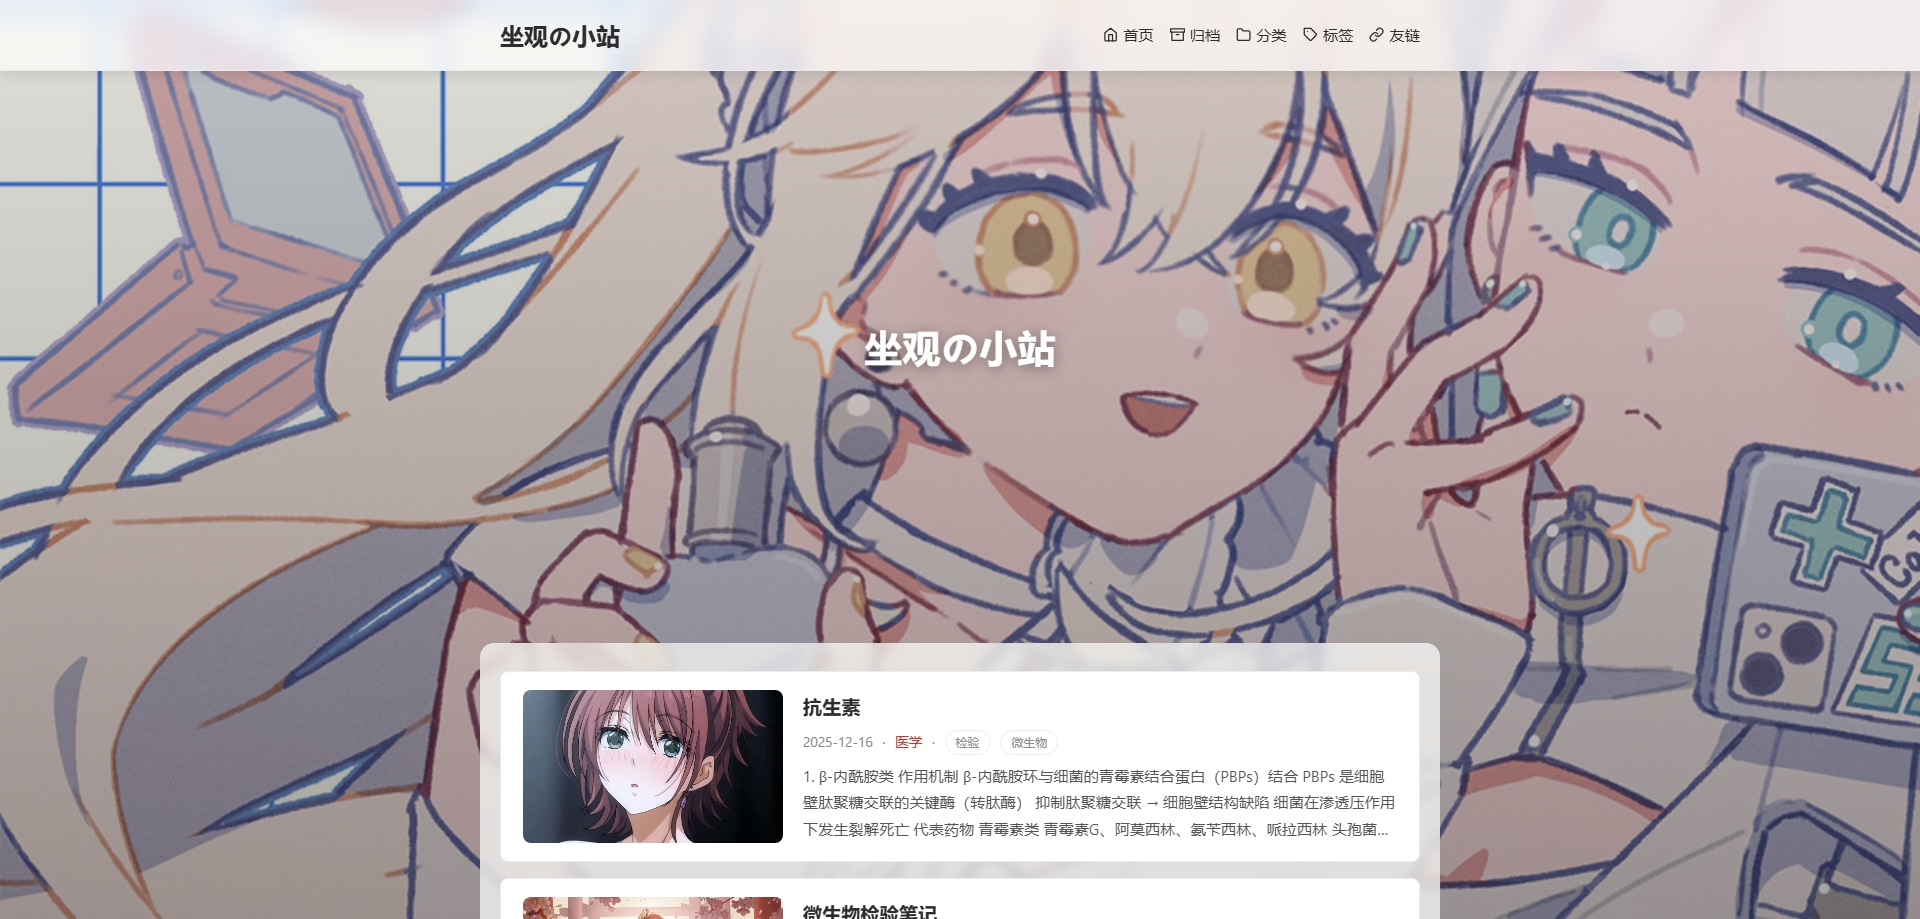
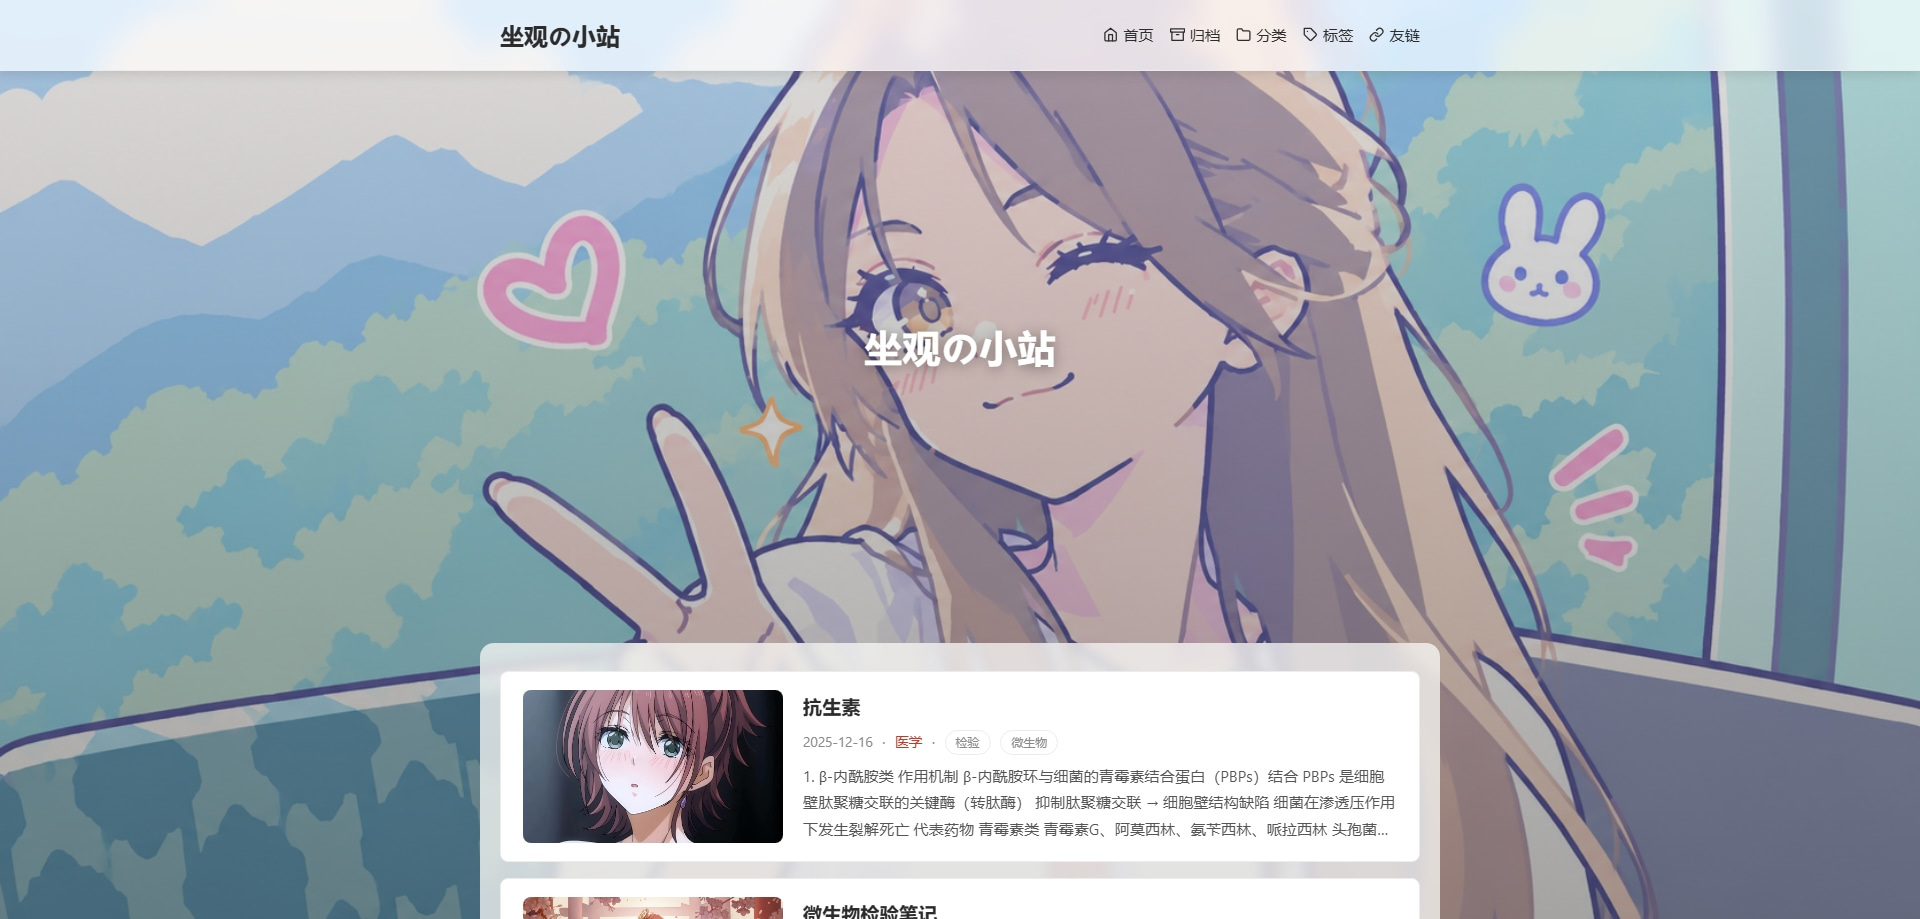
更换banner图片

diff --git a/public/tags/index.html b/public/tags/index.html
@@ -22,7 +22,7 @@
   </div>
 </header>
 <section class="hero">
-  <div class="hero-cover" style="background-image:linear-gradient(rgba(0,0,0,0.12),rgba(0,0,0,0.35)),url(&quot;https://zuoguan-piclib-1257172707.cos.ap-guangzhou.myqcloud.com/assets/c72889ceb2b468947eea7a86a5056282.jpg&quot;)"></div>
+  <div class="hero-cover" style="background-image:linear-gradient(rgba(0,0,0,0.12),rgba(0,0,0,0.35)),url(&quot;https://zuoguan-piclib-1257172707.cos.ap-guangzhou.myqcloud.com/assets/81bb1f19351284a6b45e947cdb350018.png&quot;)"></div>
   <div class="hero-inner container">
     <h1 class="hero-title">标签</h1>
     <p class="hero-subtitle">共 20 个标签</p>
@@ -34,7 +34,7 @@
 <section class="term-page">
   
   
-  <div class="tag-cloud"><a class="tag-cloud-item" href="/tags/%E5%BE%AE%E7%94%9F%E7%89%A9/" style="font-size:1.05rem;--th:22">微生物 <small>2</small></a><a class="tag-cloud-item" href="/tags/CSharp/" style="font-size:0.95rem;--th:169">CSharp <small>1</small></a><a class="tag-cloud-item" href="/tags/%E4%BB%A3%E7%90%86/" style="font-size:1.25rem;--th:321">代理 <small>4</small></a><a class="tag-cloud-item" href="/tags/%E6%9D%82%E8%B0%88/" style="font-size:1.25rem;--th:293">杂谈 <small>4</small></a><a class="tag-cloud-item" href="/tags/Photoshop/" style="font-size:0.95rem;--th:297">Photoshop <small>1</small></a><a class="tag-cloud-item" href="/tags/%E6%A3%80%E9%AA%8C/" style="font-size:1.15rem;--th:72">检验 <small>3</small></a><a class="tag-cloud-item" href="/tags/%E5%85%8D%E7%96%AB/" style="font-size:0.95rem;--th:236">免疫 <small>1</small></a><a class="tag-cloud-item" href="/tags/Powershell/" style="font-size:0.95rem;--th:111">Powershell <small>1</small></a><a class="tag-cloud-item" href="/tags/Windows/" style="font-size:1.15rem;--th:297">Windows <small>3</small></a><a class="tag-cloud-item" href="/tags/%E5%8D%9A%E5%AE%A2/" style="font-size:1.05rem;--th:193">博客 <small>2</small></a><a class="tag-cloud-item" href="/tags/Flask/" style="font-size:0.95rem;--th:296">Flask <small>1</small></a><a class="tag-cloud-item" href="/tags/Python/" style="font-size:1.75rem;--th:224">Python <small>9</small></a><a class="tag-cloud-item" href="/tags/%E5%86%85%E5%AD%98%E4%BF%AE%E6%94%B9/" style="font-size:0.95rem;--th:68">内存修改 <small>1</small></a><a class="tag-cloud-item" href="/tags/%E7%88%AC%E8%99%AB/" style="font-size:1.15rem;--th:78">爬虫 <small>3</small></a><a class="tag-cloud-item" href="/tags/%E7%A5%9E%E7%BB%8F%E7%BD%91%E7%BB%9C/" style="font-size:0.95rem;--th:63">神经网络 <small>1</small></a><a class="tag-cloud-item" href="/tags/%E7%BB%9F%E8%AE%A1/" style="font-size:0.95rem;--th:138">统计 <small>1</small></a><a class="tag-cloud-item" href="/tags/%E6%95%B0%E6%8D%AE%E5%A4%84%E7%90%86/" style="font-size:0.95rem;--th:189">数据处理 <small>1</small></a><a class="tag-cloud-item" href="/tags/%E8%84%9A%E6%9C%AC/" style="font-size:0.95rem;--th:318">脚本 <small>1</small></a><a class="tag-cloud-item" href="/tags/%E9%98%B2%E7%81%AB%E5%A2%99/" style="font-size:1.05rem;--th:72">防火墙 <small>2</small></a><a class="tag-cloud-item" href="/tags/%E6%B3%A8%E5%86%8C%E8%A1%A8/" style="font-size:1.05rem;--th:300">注册表 <small>2</small></a>
+  <div class="tag-cloud"><a class="tag-cloud-item" href="/tags/%E8%84%9A%E6%9C%AC/" style="font-size:0.95rem;--th:318">脚本 <small>1</small></a><a class="tag-cloud-item" href="/tags/%E6%A3%80%E9%AA%8C/" style="font-size:1.15rem;--th:72">检验 <small>3</small></a><a class="tag-cloud-item" href="/tags/%E7%88%AC%E8%99%AB/" style="font-size:1.15rem;--th:78">爬虫 <small>3</small></a><a class="tag-cloud-item" href="/tags/Photoshop/" style="font-size:0.95rem;--th:297">Photoshop <small>1</small></a><a class="tag-cloud-item" href="/tags/Python/" style="font-size:1.75rem;--th:224">Python <small>9</small></a><a class="tag-cloud-item" href="/tags/%E5%BE%AE%E7%94%9F%E7%89%A9/" style="font-size:1.05rem;--th:22">微生物 <small>2</small></a><a class="tag-cloud-item" href="/tags/%E7%BB%9F%E8%AE%A1/" style="font-size:0.95rem;--th:138">统计 <small>1</small></a><a class="tag-cloud-item" href="/tags/%E5%85%8D%E7%96%AB/" style="font-size:0.95rem;--th:236">免疫 <small>1</small></a><a class="tag-cloud-item" href="/tags/%E6%95%B0%E6%8D%AE%E5%A4%84%E7%90%86/" style="font-size:0.95rem;--th:189">数据处理 <small>1</small></a><a class="tag-cloud-item" href="/tags/CSharp/" style="font-size:0.95rem;--th:169">CSharp <small>1</small></a><a class="tag-cloud-item" href="/tags/Flask/" style="font-size:0.95rem;--th:296">Flask <small>1</small></a><a class="tag-cloud-item" href="/tags/%E7%A5%9E%E7%BB%8F%E7%BD%91%E7%BB%9C/" style="font-size:0.95rem;--th:63">神经网络 <small>1</small></a><a class="tag-cloud-item" href="/tags/Windows/" style="font-size:1.15rem;--th:297">Windows <small>3</small></a><a class="tag-cloud-item" href="/tags/%E6%9D%82%E8%B0%88/" style="font-size:1.25rem;--th:293">杂谈 <small>4</small></a><a class="tag-cloud-item" href="/tags/%E4%BB%A3%E7%90%86/" style="font-size:1.25rem;--th:321">代理 <small>4</small></a><a class="tag-cloud-item" href="/tags/Powershell/" style="font-size:0.95rem;--th:111">Powershell <small>1</small></a><a class="tag-cloud-item" href="/tags/%E9%98%B2%E7%81%AB%E5%A2%99/" style="font-size:1.05rem;--th:72">防火墙 <small>2</small></a><a class="tag-cloud-item" href="/tags/%E6%B3%A8%E5%86%8C%E8%A1%A8/" style="font-size:1.05rem;--th:300">注册表 <small>2</small></a><a class="tag-cloud-item" href="/tags/%E5%8D%9A%E5%AE%A2/" style="font-size:1.05rem;--th:193">博客 <small>2</small></a><a class="tag-cloud-item" href="/tags/%E5%86%85%E5%AD%98%E4%BF%AE%E6%94%B9/" style="font-size:0.95rem;--th:68">内存修改 <small>1</small></a>
   </div>
 </section>
 </main>

diff --git a/public/tags/内存修改/index.html b/public/tags/内存修改/index.html
@@ -22,7 +22,7 @@
   </div>
 </header>
 <section class="hero">
-  <div class="hero-cover" style="background-image:linear-gradient(rgba(0,0,0,0.12),rgba(0,0,0,0.35)),url(&quot;https://zuoguan-piclib-1257172707.cos.ap-guangzhou.myqcloud.com/assets/c72889ceb2b468947eea7a86a5056282.jpg&quot;)"></div>
+  <div class="hero-cover" style="background-image:linear-gradient(rgba(0,0,0,0.12),rgba(0,0,0,0.35)),url(&quot;https://zuoguan-piclib-1257172707.cos.ap-guangzhou.myqcloud.com/assets/81bb1f19351284a6b45e947cdb350018.png&quot;)"></div>
   <div class="hero-inner container">
     <h1 class="hero-title">标签：内存修改</h1>
     <p class="hero-subtitle">内存修改 下共 1 篇文章</p>

diff --git a/public/tags/数据处理/index.html b/public/tags/数据处理/index.html
@@ -22,7 +22,7 @@
   </div>
 </header>
 <section class="hero">
-  <div class="hero-cover" style="background-image:linear-gradient(rgba(0,0,0,0.12),rgba(0,0,0,0.35)),url(&quot;https://zuoguan-piclib-1257172707.cos.ap-guangzhou.myqcloud.com/assets/c72889ceb2b468947eea7a86a5056282.jpg&quot;)"></div>
+  <div class="hero-cover" style="background-image:linear-gradient(rgba(0,0,0,0.12),rgba(0,0,0,0.35)),url(&quot;https://zuoguan-piclib-1257172707.cos.ap-guangzhou.myqcloud.com/assets/81bb1f19351284a6b45e947cdb350018.png&quot;)"></div>
   <div class="hero-inner container">
     <h1 class="hero-title">标签：数据处理</h1>
     <p class="hero-subtitle">数据处理 下共 1 篇文章</p>

diff --git a/public/tags/神经网络/index.html b/public/tags/神经网络/index.html
@@ -22,7 +22,7 @@
   </div>
 </header>
 <section class="hero">
-  <div class="hero-cover" style="background-image:linear-gradient(rgba(0,0,0,0.12),rgba(0,0,0,0.35)),url(&quot;https://zuoguan-piclib-1257172707.cos.ap-guangzhou.myqcloud.com/assets/c72889ceb2b468947eea7a86a5056282.jpg&quot;)"></div>
+  <div class="hero-cover" style="background-image:linear-gradient(rgba(0,0,0,0.12),rgba(0,0,0,0.35)),url(&quot;https://zuoguan-piclib-1257172707.cos.ap-guangzhou.myqcloud.com/assets/81bb1f19351284a6b45e947cdb350018.png&quot;)"></div>
   <div class="hero-inner container">
     <h1 class="hero-title">标签：神经网络</h1>
     <p class="hero-subtitle">神经网络 下共 1 篇文章</p>

diff --git a/public/tags/Powershell/index.html b/public/tags/Powershell/index.html
@@ -22,7 +22,7 @@
   </div>
 </header>
 <section class="hero">
-  <div class="hero-cover" style="background-image:linear-gradient(rgba(0,0,0,0.12),rgba(0,0,0,0.35)),url(&quot;https://zuoguan-piclib-1257172707.cos.ap-guangzhou.myqcloud.com/assets/c72889ceb2b468947eea7a86a5056282.jpg&quot;)"></div>
+  <div class="hero-cover" style="background-image:linear-gradient(rgba(0,0,0,0.12),rgba(0,0,0,0.35)),url(&quot;https://zuoguan-piclib-1257172707.cos.ap-guangzhou.myqcloud.com/assets/81bb1f19351284a6b45e947cdb350018.png&quot;)"></div>
   <div class="hero-inner container">
     <h1 class="hero-title">标签：Powershell</h1>
     <p class="hero-subtitle">Powershell 下共 1 篇文章</p>

diff --git a/public/categories/计算机/index.html b/public/categories/计算机/index.html
@@ -22,7 +22,7 @@
   </div>
 </header>
 <section class="hero">
-  <div class="hero-cover" style="background-image:linear-gradient(rgba(0,0,0,0.12),rgba(0,0,0,0.35)),url(&quot;https://zuoguan-piclib-1257172707.cos.ap-guangzhou.myqcloud.com/assets/c72889ceb2b468947eea7a86a5056282.jpg&quot;)"></div>
+  <div class="hero-cover" style="background-image:linear-gradient(rgba(0,0,0,0.12),rgba(0,0,0,0.35)),url(&quot;https://zuoguan-piclib-1257172707.cos.ap-guangzhou.myqcloud.com/assets/81bb1f19351284a6b45e947cdb350018.png&quot;)"></div>
   <div class="hero-inner container">
     <h1 class="hero-title">分类：计算机</h1>
     <p class="hero-subtitle">计算机 下共 5 篇文章</p>

diff --git a/public/tags/Photoshop/index.html b/public/tags/Photoshop/index.html
@@ -22,7 +22,7 @@
   </div>
 </header>
 <section class="hero">
-  <div class="hero-cover" style="background-image:linear-gradient(rgba(0,0,0,0.12),rgba(0,0,0,0.35)),url(&quot;https://zuoguan-piclib-1257172707.cos.ap-guangzhou.myqcloud.com/assets/c72889ceb2b468947eea7a86a5056282.jpg&quot;)"></div>
+  <div class="hero-cover" style="background-image:linear-gradient(rgba(0,0,0,0.12),rgba(0,0,0,0.35)),url(&quot;https://zuoguan-piclib-1257172707.cos.ap-guangzhou.myqcloud.com/assets/81bb1f19351284a6b45e947cdb350018.png&quot;)"></div>
   <div class="hero-inner container">
     <h1 class="hero-title">标签：Photoshop</h1>
     <p class="hero-subtitle">Photoshop 下共 1 篇文章</p>

diff --git a/public/tags/微生物/index.html b/public/tags/微生物/index.html
@@ -22,7 +22,7 @@
   </div>
 </header>
 <section class="hero">
-  <div class="hero-cover" style="background-image:linear-gradient(rgba(0,0,0,0.12),rgba(0,0,0,0.35)),url(&quot;https://zuoguan-piclib-1257172707.cos.ap-guangzhou.myqcloud.com/assets/c72889ceb2b468947eea7a86a5056282.jpg&quot;)"></div>
+  <div class="hero-cover" style="background-image:linear-gradient(rgba(0,0,0,0.12),rgba(0,0,0,0.35)),url(&quot;https://zuoguan-piclib-1257172707.cos.ap-guangzhou.myqcloud.com/assets/81bb1f19351284a6b45e947cdb350018.png&quot;)"></div>
   <div class="hero-inner container">
     <h1 class="hero-title">标签：微生物</h1>
     <p class="hero-subtitle">微生物 下共 2 篇文章</p>

diff --git a/public/tags/注册表/index.html b/public/tags/注册表/index.html
@@ -22,7 +22,7 @@
   </div>
 </header>
 <section class="hero">
-  <div class="hero-cover" style="background-image:linear-gradient(rgba(0,0,0,0.12),rgba(0,0,0,0.35)),url(&quot;https://zuoguan-piclib-1257172707.cos.ap-guangzhou.myqcloud.com/assets/c72889ceb2b468947eea7a86a5056282.jpg&quot;)"></div>
+  <div class="hero-cover" style="background-image:linear-gradient(rgba(0,0,0,0.12),rgba(0,0,0,0.35)),url(&quot;https://zuoguan-piclib-1257172707.cos.ap-guangzhou.myqcloud.com/assets/81bb1f19351284a6b45e947cdb350018.png&quot;)"></div>
   <div class="hero-inner container">
     <h1 class="hero-title">标签：注册表</h1>
     <p class="hero-subtitle">注册表 下共 2 篇文章</p>

diff --git a/public/tags/防火墙/index.html b/public/tags/防火墙/index.html
@@ -22,7 +22,7 @@
   </div>
 </header>
 <section class="hero">
-  <div class="hero-cover" style="background-image:linear-gradient(rgba(0,0,0,0.12),rgba(0,0,0,0.35)),url(&quot;https://zuoguan-piclib-1257172707.cos.ap-guangzhou.myqcloud.com/assets/c72889ceb2b468947eea7a86a5056282.jpg&quot;)"></div>
+  <div class="hero-cover" style="background-image:linear-gradient(rgba(0,0,0,0.12),rgba(0,0,0,0.35)),url(&quot;https://zuoguan-piclib-1257172707.cos.ap-guangzhou.myqcloud.com/assets/81bb1f19351284a6b45e947cdb350018.png&quot;)"></div>
   <div class="hero-inner container">
     <h1 class="hero-title">标签：防火墙</h1>
     <p class="hero-subtitle">防火墙 下共 2 篇文章</p>

diff --git a/public/tags/Windows/index.html b/public/tags/Windows/index.html
@@ -22,7 +22,7 @@
   </div>
 </header>
 <section class="hero">
-  <div class="hero-cover" style="background-image:linear-gradient(rgba(0,0,0,0.12),rgba(0,0,0,0.35)),url(&quot;https://zuoguan-piclib-1257172707.cos.ap-guangzhou.myqcloud.com/assets/c72889ceb2b468947eea7a86a5056282.jpg&quot;)"></div>
+  <div class="hero-cover" style="background-image:linear-gradient(rgba(0,0,0,0.12),rgba(0,0,0,0.35)),url(&quot;https://zuoguan-piclib-1257172707.cos.ap-guangzhou.myqcloud.com/assets/81bb1f19351284a6b45e947cdb350018.png&quot;)"></div>
   <div class="hero-inner container">
     <h1 class="hero-title">标签：Windows</h1>
     <p class="hero-subtitle">Windows 下共 3 篇文章</p>

diff --git a/public/categories/其他/index.html b/public/categories/其他/index.html
@@ -22,7 +22,7 @@
   </div>
 </header>
 <section class="hero">
-  <div class="hero-cover" style="background-image:linear-gradient(rgba(0,0,0,0.12),rgba(0,0,0,0.35)),url(&quot;https://zuoguan-piclib-1257172707.cos.ap-guangzhou.myqcloud.com/assets/c72889ceb2b468947eea7a86a5056282.jpg&quot;)"></div>
+  <div class="hero-cover" style="background-image:linear-gradient(rgba(0,0,0,0.12),rgba(0,0,0,0.35)),url(&quot;https://zuoguan-piclib-1257172707.cos.ap-guangzhou.myqcloud.com/assets/81bb1f19351284a6b45e947cdb350018.png&quot;)"></div>
   <div class="hero-inner container">
     <h1 class="hero-title">分类：其他</h1>
     <p class="hero-subtitle">其他 下共 3 篇文章</p>
